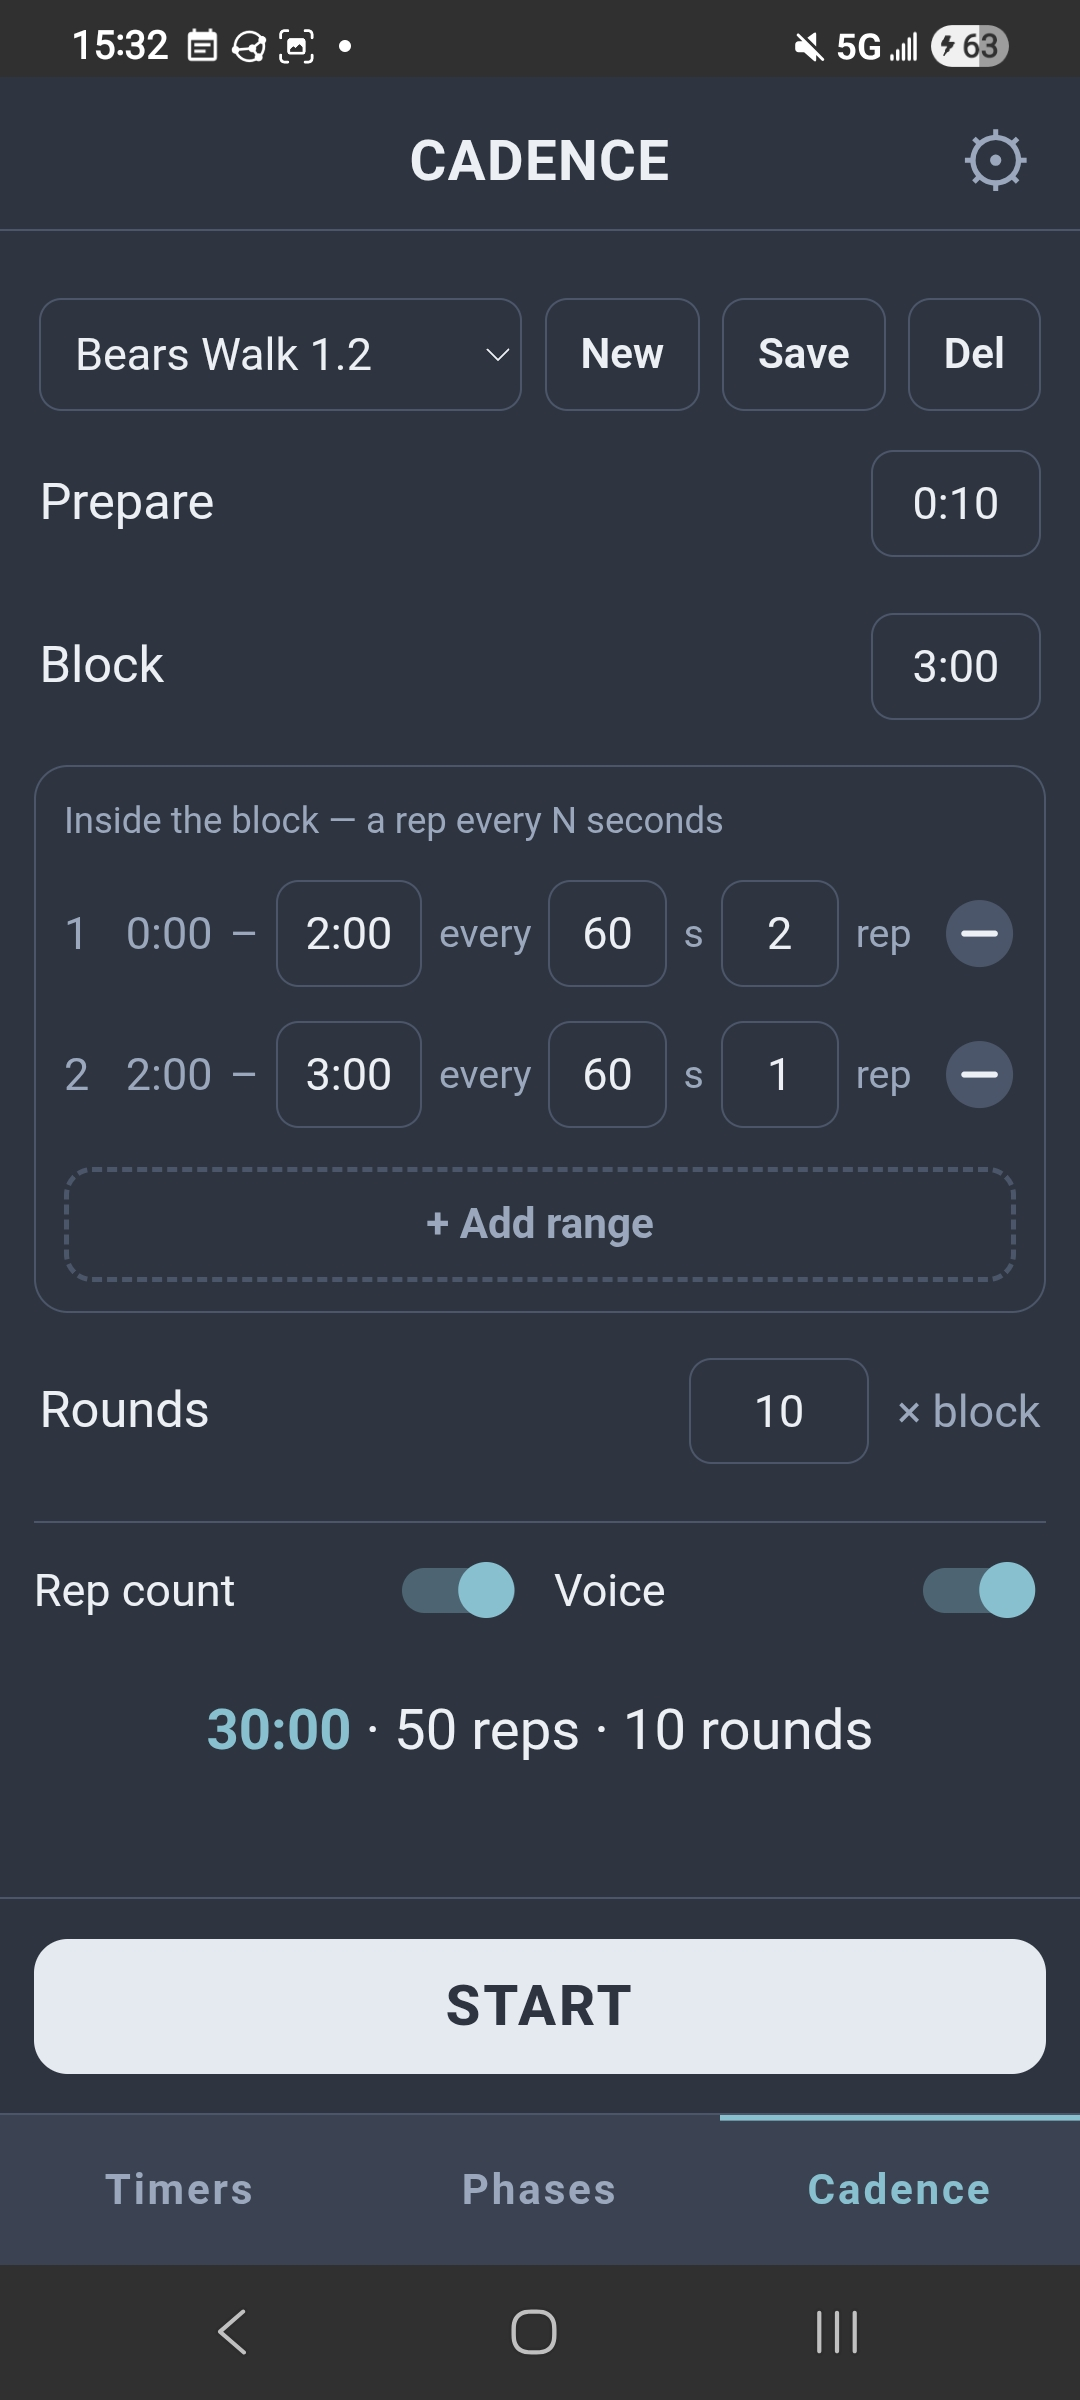
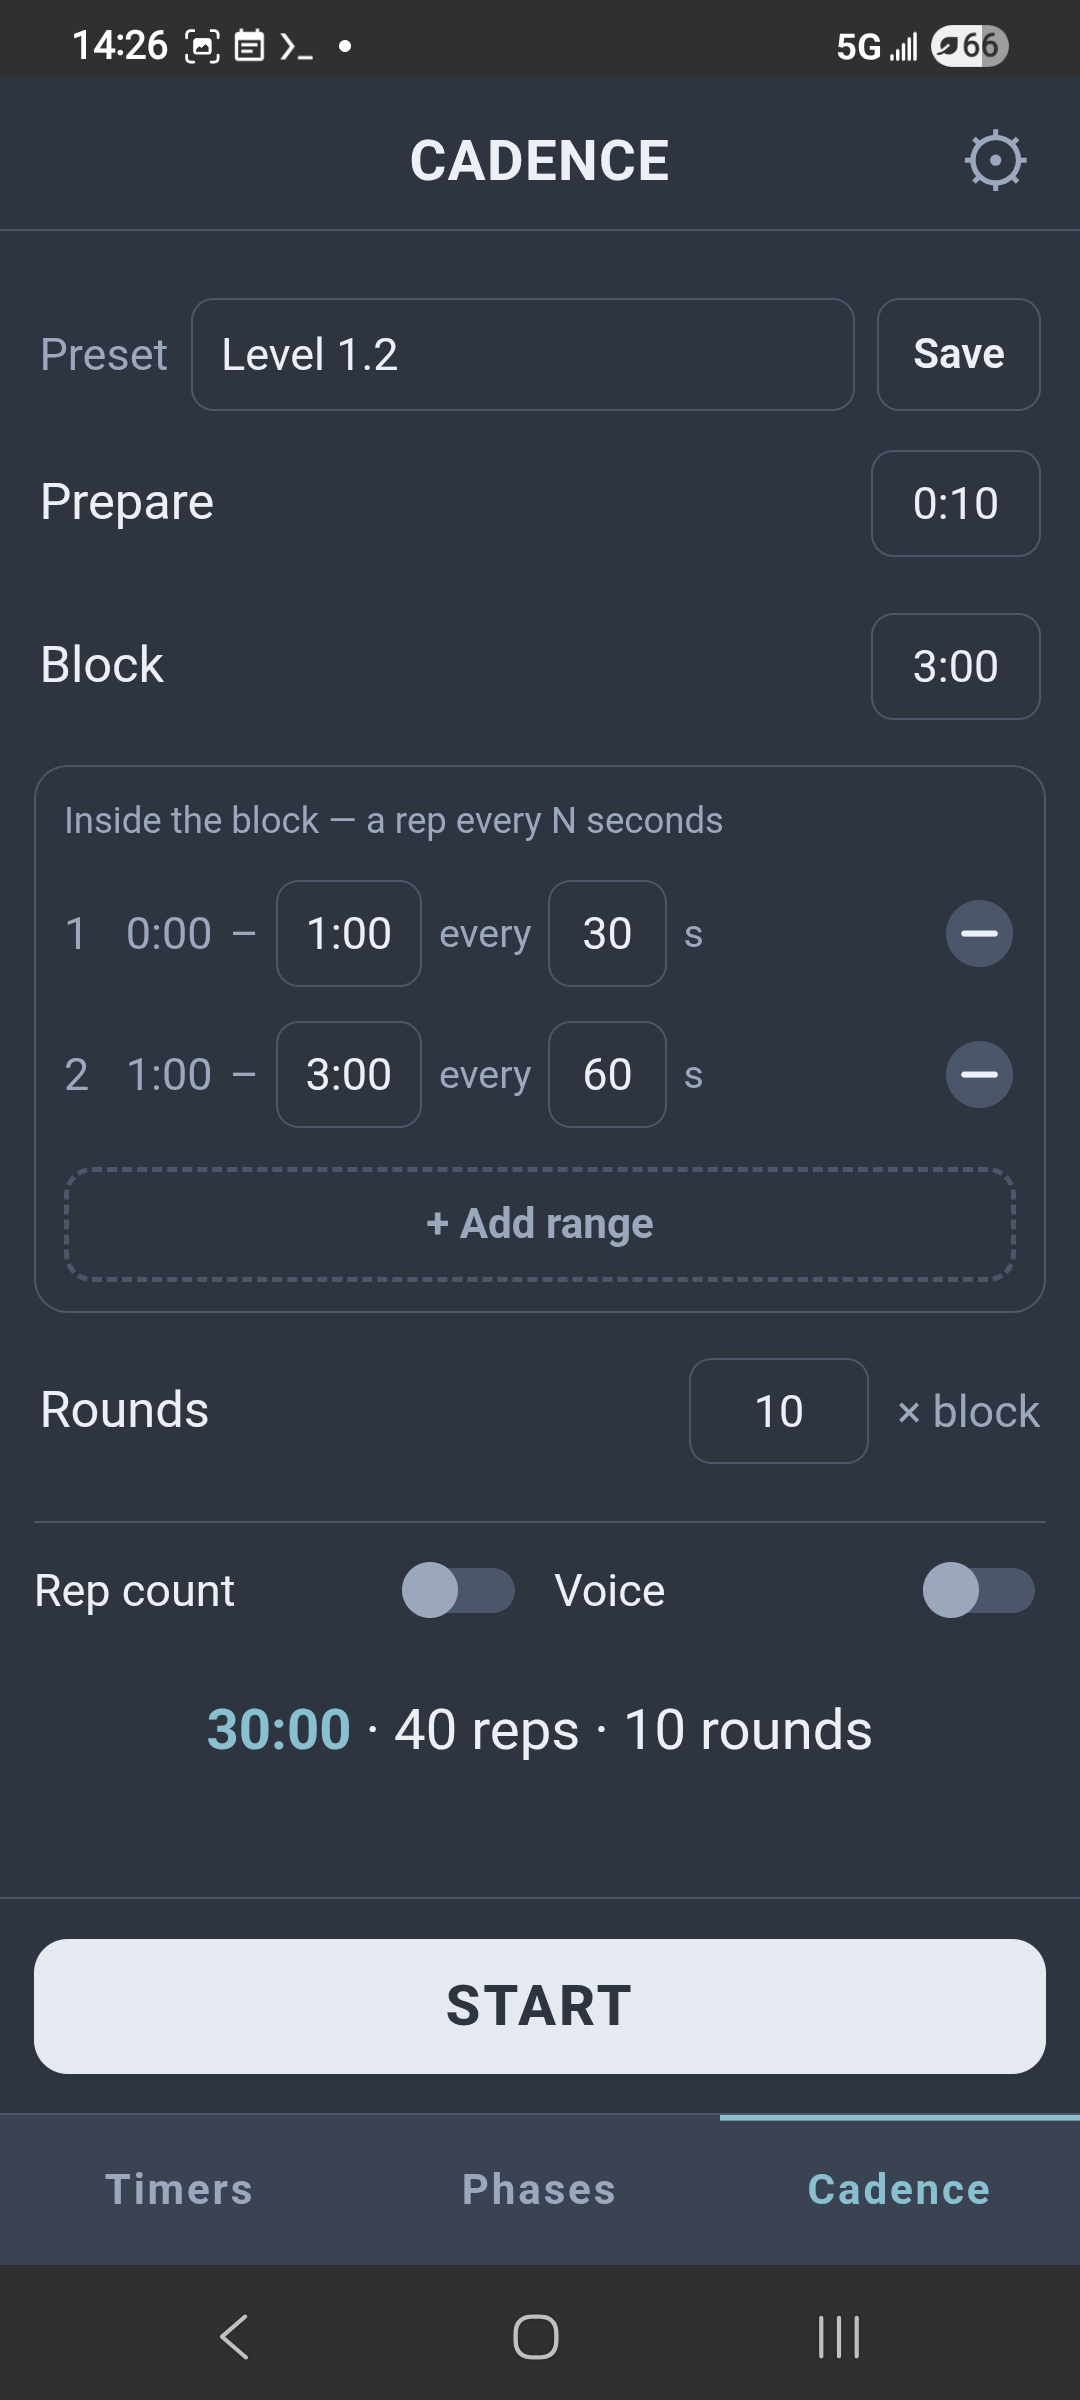
chore: release 1.1.0
New features, nothing broken, so the minor bumps. versionCode 2 is
what Android and F-Droid compare.

Four of the six screenshots showed a preset UI that no longer exists.
Timers and the running session were unchanged and are kept.

diff --git a/CHANGELOG.md b/CHANGELOG.md
@@ -5,7 +5,7 @@ All notable changes documented here.
 Format based on [Keep a Changelog](https://keepachangelog.com/en/1.1.0/)
 Adheres to [Semantic Versioning](https://semver.org/spec/v2.0.0.html)
 
-## [Unreleased]
+## [1.1.0] - 2026-09-21
 
 ### Added
 
